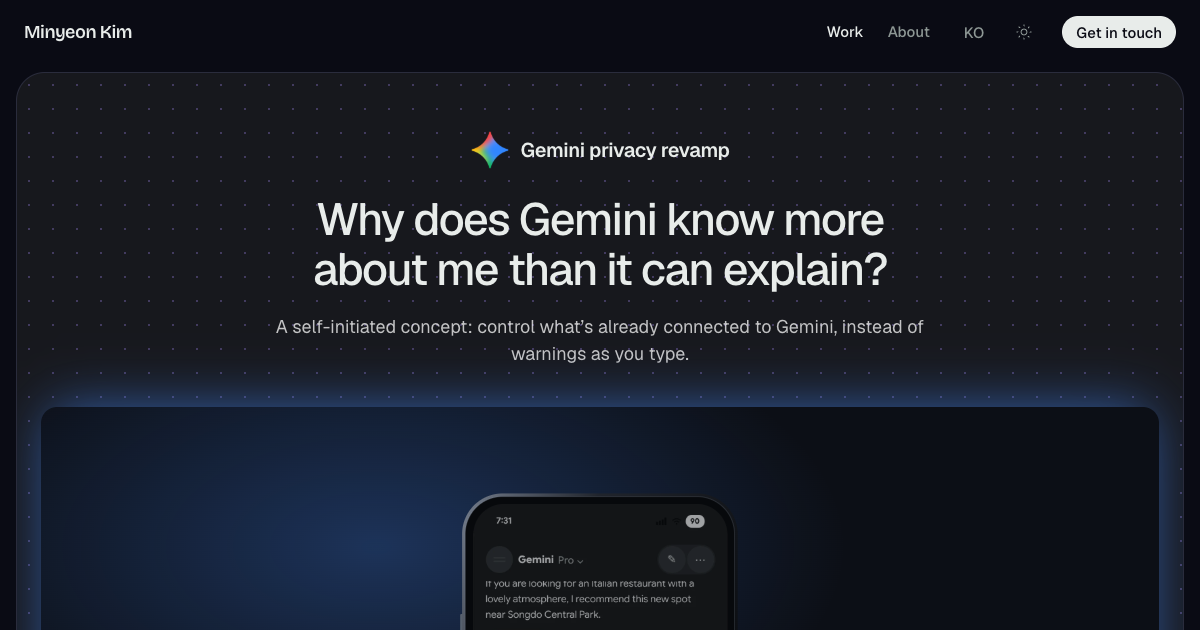
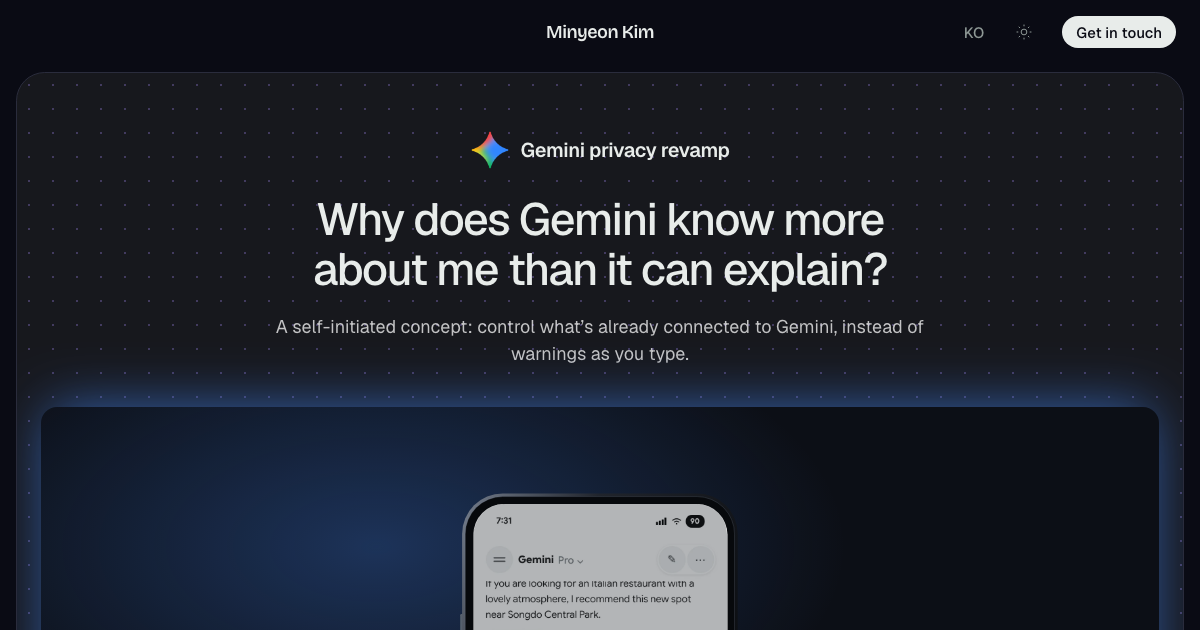
Landing hovers: smaller card corners, larger bolt and sparkle, no role line; Gemini phone always light

diff --git a/app/globals.css b/app/globals.css
@@ -1961,8 +1961,6 @@ header:has(.header-menu-trigger[aria-expanded="true"]) .site-header-bar { backgr
 :root[data-theme="dark"] [data-theme-show="light"] { display: none !important; }
 @media (prefers-color-scheme: light) { :root:not([data-theme="dark"]) [data-theme-show="dark"] { display: none !important; } }
 @media (prefers-color-scheme: dark) { :root:not([data-theme="light"]) [data-theme-show="light"] { display: none !important; } }
-:root[data-theme="dark"] .gemini-phone-display, :root[data-theme="dark"] .gemini-phone-sheet { background: #131314; }
-@media (prefers-color-scheme: dark) { :root:not([data-theme="light"]) :is(.gemini-phone-display, .gemini-phone-sheet) { background: #131314; } }
 
 /* Devsign hero: real prototype screens, one 9s loop (components/devsign-loop.tsx). */
 .devsign-loop { position: relative; max-width: 1280px; margin-inline: auto; overflow: hidden; border-radius: 16px; border: 1px solid rgb(255 255 255 / 0.08); box-shadow: 0 30px 80px rgb(0 0 0 / 0.45); }
@@ -2544,17 +2542,17 @@ header[data-home] .header-menu-trigger { transition-property: background-color, 
   .home-world-role, .home-world-name, .home-world-problem { display: none; }
 }
 /* The hovered case's media: a large flat card at the top right, in its own frame (metalab.com's project shot), not a posed device. */
-.home-device { position: absolute; top: 14%; right: calc(var(--project-text-inset) + var(--picks-gutter)); width: min(40vw, 620px); aspect-ratio: 16 / 10; overflow: hidden; border: 0; border-radius: 22px; background: #141414; box-shadow: 0 60px 120px -40px rgb(0 0 0 / 0.7), 0 16px 40px -16px rgb(0 0 0 / 0.4); opacity: 0; translate: 0 40px; clip-path: inset(100% 0 0 0 round 22px); transition: opacity 400ms ease, translate 500ms var(--ease-out-soft), clip-path 500ms var(--ease-out-soft); pointer-events: none; }
-.home-device[data-active] { opacity: 1; translate: 0 0; clip-path: inset(0 0 0 0 round 22px); transition: opacity 300ms ease, translate 800ms var(--ease-out-soft), clip-path 800ms var(--ease-out-soft); }
+.home-device { position: absolute; top: 14%; right: calc(var(--project-text-inset) + var(--picks-gutter)); width: min(40vw, 620px); aspect-ratio: 16 / 10; overflow: hidden; border: 0; border-radius: 8px; background: #141414; box-shadow: 0 60px 120px -40px rgb(0 0 0 / 0.7), 0 16px 40px -16px rgb(0 0 0 / 0.4); opacity: 0; translate: 0 40px; clip-path: inset(100% 0 0 0 round 8px); transition: opacity 400ms ease, translate 500ms var(--ease-out-soft), clip-path 500ms var(--ease-out-soft); pointer-events: none; }
+.home-device[data-active] { opacity: 1; translate: 0 0; clip-path: inset(0 0 0 0 round 8px); transition: opacity 300ms ease, translate 800ms var(--ease-out-soft), clip-path 800ms var(--ease-out-soft); }
 /* The cards sit above the backdrop's vignette, so the light theme's pale edge never washes over them. */
 .home-backdrop .home-device { z-index: 1; }
-.home-device[data-project="devsign"] { translate: 0 0; clip-path: inset(0 0 0 100% round 22px); }
-.home-device[data-project="devsign"][data-active] { clip-path: inset(0 0 0 0 round 22px); }
+.home-device[data-project="devsign"] { translate: 0 0; clip-path: inset(0 0 0 100% round 8px); }
+.home-device[data-project="devsign"][data-active] { clip-path: inset(0 0 0 0 round 8px); }
 .home-device > * { scale: 1.12; transition: scale 500ms var(--ease-out-soft); }
 .home-device[data-active] > * { scale: 1; transition: scale 1000ms var(--ease-out-soft); }
 /* The cards sit on the case's own colour plate, the screen set into it (after lusion.co/work). */
 .home-device[data-project="devsign"] { background: radial-gradient(80% 90% at 20% 0%, #8b6cff 0%, #5b3fd6 45%, #2a1a7a 100%); }
-.home-device[data-project="devsign"] .home-device-window { inset: 9% 7% -6% 7%; border-radius: 12px; overflow: hidden; box-shadow: 0 30px 60px -20px rgb(10 0 40 / 0.7), 0 0 0 1px rgb(255 255 255 / 0.12); }
+.home-device[data-project="devsign"] .home-device-window { inset: 9% 7% -6% 7%; border-radius: 6px; overflow: hidden; box-shadow: 0 30px 60px -20px rgb(10 0 40 / 0.7), 0 0 0 1px rgb(255 255 255 / 0.12); }
 .home-device[data-project="gemini-privacy"] { background: radial-gradient(90% 80% at 30% 10%, #9ad7ff 0%, #5b8cff 40%, #3a2f9a 100%); }
 .home-device[data-project="gemini-privacy"] .home-device-phone { background: none; }
 /* Its caption: a black block overlapping a corner of the card. */
@@ -3258,20 +3256,17 @@ header[data-home] .header-menu-trigger { transition-property: background-color, 
   .home-picks ol { flex-direction: column; align-items: flex-start; gap: 6px; }
   .home-pick { min-height: 32px; padding: 0 16px; font-size: 16px; font-weight: 400; }
   /* Each case's hover, in metalab.com's own proportions. Gemini follows its The Atlantic
-     state: portrait card at the bottom right, name left of centre, the sentence high,
-     the role low. Devsign follows Midjourney: card at the top right of centre, role high,
-     name low, the sentence in the bottom right corner. */
+     state: portrait card at the bottom right, name left of centre, the sentence high.
+     Devsign follows Midjourney: card at the top right of centre, name low, the sentence
+     in the bottom right corner. */
   .home-device[data-project="gemini-privacy"] { --card-h: 55svh; top: auto; bottom: 24px; right: var(--project-text-inset); width: auto; height: var(--card-h); aspect-ratio: 3 / 4; }
   .home-stage[data-world="gemini-privacy"] { --gx: max(18.7%, calc(var(--project-text-inset) + 240px)); }
   /* One line, unless the card leaves too little room for it (1024 wide). */
   .home-stage[data-world="gemini-privacy"] .home-world-name { left: var(--gx); top: calc(57% - 0.5em); max-width: calc(100% - var(--gx) - var(--project-text-inset) - 41.25svh - 16px); font-size: clamp(44px, min(5.4vw, 10svh), 104px); }
   .home-stage[data-world="gemini-privacy"] .home-world-problem { left: 42.4%; right: auto; top: 18.8%; bottom: auto; width: min(30ch, 300px); }
-  .home-stage[data-world="gemini-privacy"] .home-world-role { left: min(59%, calc(100% - var(--project-text-inset) - 41.25svh - 214px)); top: 69%; width: 190px; translate: 0 16px; white-space: normal; }
   .home-device[data-project="devsign"] { top: 11.4%; left: 52%; right: auto; width: 40vw; }
   .home-stage[data-world="devsign"] .home-world-name { left: 35%; top: calc(73.5% - 0.5em); max-width: none; white-space: nowrap; }
-  .home-stage[data-world="devsign"] .home-world-role { left: 28%; top: 18.8%; max-width: calc(24% - 24px); translate: 0 16px; white-space: normal; }
   .home-stage[data-world="devsign"] .home-world-problem { left: 75.3%; right: var(--project-text-inset); bottom: 48px; width: auto; }
-  .home-stage:is([data-world="gemini-privacy"], [data-world="devsign"]) .home-world-role[data-on] { translate: 0 0; }
 }
 /* The shown card and its caption open the case. They sit in the backdrop, so the
    copy layer above lets the pointer through, except on its own visible parts. */

diff --git a/components/home/hero-object.tsx b/components/home/hero-object.tsx
@@ -57,8 +57,8 @@ bool inBolt(vec2 q) {
   }
   return inside;
 }
-const float BOLT_SCALE = 1.3;
-const vec2 BOLT_AT = vec2(-1.13, 0.2);
+const float BOLT_SCALE = 1.7;
+const vec2 BOLT_AT = vec2(-1.42, -0.19);
 // Where point n of the form leans: the form, with a wide halo of dust.
 vec3 formOf(float n, vec2 uv) {
   float a = hq(n, 1u), b = hq(n, 2u), c = hq(n, 3u), g = hq(n, 4u);
@@ -100,7 +100,8 @@ vec3 formOf(float n, vec2 uv) {
       }
       loose *= 0.3;
     }
-    // Left of the card and above the name, large.
+    // Large and tall at the left of the card, the name over its lower part
+    // (metalab.com's Midjourney head).
     p = vec3(q * BOLT_SCALE + BOLT_AT, (hq(n, 17u) - 0.5) * 0.2);
   } else {
     // The Gemini sparkle: a four-point star with concave sides, filled with a
@@ -110,8 +111,8 @@ vec3 formOf(float n, vec2 uv) {
     vec2 dir = vec2(cos(t), sin(t));
     float r = 1.2 / pow(pow(abs(dir.x), 0.5) + pow(abs(dir.y), 0.5), 2.0);
     float fill = a < 0.6 ? mix(0.62, 1.0, sqrt(c)) : sqrt(c);
-    // Top left, above the title, clear of the card and the paragraph.
-    p = vec3(dir * r * fill * 0.85 + vec2(-1.6, 0.9), (hq(n, 18u) - 0.5) * 0.2);
+    // Large behind the copy, above the card (metalab.com's Atlantic head).
+    p = vec3(dir * r * fill * 1.2 + vec2(-0.2, 0.23), (hq(n, 18u) - 0.5) * 0.2);
     loose *= a < 0.6 ? 0.6 : 0.75;
   }
   // While a case is hovered, most of the dust draws in so the form shows;
@@ -219,7 +220,7 @@ void main() {
 
 const drawVertex = `#version 300 es
 precision highp float;
-uniform sampler2D pos; uniform sampler2D vel; uniform float SIZE; uniform float aspect; uniform float symbol; uniform float time; uniform vec2 mouse; uniform float spectrum; uniform float bolt; uniform float galaxy; uniform float light; uniform float dpr; uniform vec4 clearRect[3]; uniform vec2 cam; uniform float skyFrom; uniform float ground;
+uniform sampler2D pos; uniform sampler2D vel; uniform float SIZE; uniform float aspect; uniform float symbol; uniform float time; uniform vec2 mouse; uniform float spectrum; uniform float bolt; uniform float galaxy; uniform float light; uniform float dpr; uniform vec4 clearRect[4]; uniform vec2 cam; uniform float skyFrom; uniform float ground;
 uniform float keep;  // the share of the simulation drawn
 uniform float portraitMix; uniform sampler2D portrait; uniform sampler2D portraitColor;
 uniform float halo;  // the light theme: grains drawn larger as a glow (bright core, soft coloured halo)
@@ -234,7 +235,7 @@ void main() {
   vSpeed = length(u);
   // Gemini: the sparkle takes the logo's colours, blue at its heart and
   // warmer towards its points (coral up, yellow left, green down).
-  vec2 g = (p.xy - vec2(-2.21, 1.56)) / 0.85;
+  vec2 g = (p.xy - vec2(0.03, 0.488)) / 1.2;
   float ga = atan(g.y, g.x);
   vec3 tips = vec3(0.26, 0.52, 1.0) * max(cos(ga), 0.0) + vec3(1.0, 0.42, 0.4) * max(sin(ga), 0.0)
     + vec3(1.0, 0.8, 0.25) * max(-cos(ga), 0.0) + vec3(0.2, 0.8, 0.5) * max(-sin(ga), 0.0);
@@ -243,9 +244,9 @@ void main() {
   vSpec = spectrum * mix(0.55, 0.95, smoothstep(0.05, 0.7, length(g)));
   // Devsign: the logo's violet, cyan along the lower right, and a soft
   // white sheen across the upper slab.
-  // The bolt's own coordinates, wherever formOf sets it (scale 1.3 at (-1.13, 0.2)).
-  vec2 d = ((p.xy - vec2(-1.13, 0.2)) / 1.3 + vec2(-1.75, 0.75) - vec2(0.35, 0.12)) / 1.6 - vec2(-1.75, 0.75);
-  float cyan = smoothstep(0.5, 0.8, dot(d, normalize(vec2(1.0, -0.7))));
+  // The bolt's own coordinates, wherever formOf sets it (scale 1.7 at (-1.42, -0.19)).
+  vec2 d = ((p.xy - vec2(0.35, 0.12)) / 1.6 - vec2(-1.42, -0.19)) / 1.7;
+  float cyan = smoothstep(0.25, 0.55, dot(d, normalize(vec2(1.0, -0.7))));
   float sheen = exp(-pow(dot(d - vec2(-0.25, 0.35), normalize(vec2(0.3, 1.0))) / 0.08, 2.0)) * 0.6;
   vec3 boltTint = mix(mix(vec3(0.56, 0.28, 1.0), vec3(0.3, 0.8, 1.0), cyan), vec3(0.95, 0.9, 1.0), sheen);
   vTint = mix(vTint, boltTint, bolt);
@@ -313,12 +314,13 @@ void main() {
   vFaint *= min(px, 1.0);
   // The case's paragraph stays readable: dust behind it (with a soft margin)
   // all but disappears. clearRect is its box in clip space (x0, y0, x1, y1).
-  vec2 m = vec2(0.09, 0.14);
-  for (int i = 0; i < 3; i++) {
+  vec2 m = vec2(0.05, 0.08);
+  for (int i = 0; i < 4; i++) {
     vec4 c = clearRect[i];
     float inside = smoothstep(c.x - m.x, c.x, s.x) * smoothstep(c.z + m.x, c.z, s.x)
       * smoothstep(c.y - m.y, c.y, s.y) * smoothstep(c.w + m.y, c.w, s.y);
-    vFaint *= 1.0 - 0.85 * inside;
+    // The last box is the big name: its form still shows through.
+    vFaint *= 1.0 - (i == 3 ? 0.82 : 0.85) * inside;
   }
   px *= mix(0.9, 1.0, smoothstep(0.3, 0.5, vDepth));
   // Flying through: dust grows as the camera nears it.
@@ -672,7 +674,7 @@ export function HeroObject({ variant = "default", active = true, portrait, class
 
     // The visible case paragraph's box in clip space, re-read now and then;
     // off-screen when none is shown.
-    const clear = new Array(12).fill(9);
+    const clear = new Array(16).fill(9);
     let clearTick = 0;
     const readClear = () => {
       // A case's paragraph, or on the landing the statement (with the note
@@ -683,7 +685,7 @@ export function HeroObject({ variant = "default", active = true, portrait, class
       const c = el.getBoundingClientRect();
       // The other boxes, on wide screens: the case pills and the note, which
       // sit apart from the statement, in the waves.
-      [".home-picks", ".home-note:not([data-swap]) .home-note-default, .home-world-role[data-on]"].forEach((selector, i) => {
+      [".home-picks", ".home-note:not([data-swap]) .home-note-default, .home-world-role[data-on]", ".home-world-name[data-on]"].forEach((selector, i) => {
         const box = wideStage() ? document.querySelector<HTMLElement>(selector)?.getBoundingClientRect() : undefined;
         const at = 4 + i * 4;
         if (!box) { clear.fill(9, at, at + 4); return; }

diff --git a/components/gemini-phone.tsx b/components/gemini-phone.tsx
@@ -6,29 +6,23 @@ import { withBase } from "@/lib/site";
 // pulses, the source sheet slides up and Gmail switches off, then the answer
 // confirms the change. Positions are percentages of the 750x1624 screenshot
 // (screen-a2-badge.webp); the frame is phone-frame.svg (1000x1100).
-// Light and dark screens are both in the page; CSS shows the one that matches
-// the site theme ([data-theme-show] in globals.css).
+// Always the light screens, whatever the site theme: they read better on the plate.
 export function GeminiPhone({ alt, preload = false }: { alt: string; preload?: boolean }) {
   const dir = "/images/cases/gemini-privacy";
   return (
     <div className="gemini-phone" role={alt ? "img" : undefined} aria-label={alt || undefined}>
       <Image className="gemini-phone-frame" src={withBase(`${dir}/phone-frame.svg`)} alt="" width={1000} height={1100} preload={preload} />
       <div className="gemini-phone-display">
-        {(["light", "dark"] as const).map((theme) => {
-          const v = theme === "dark" ? "-dark" : "";
-          return (
-            <div key={theme} className="gemini-phone-stage" data-theme-show={theme}>
-              <Image src={withBase(`${dir}/screen-a2-badge${v}.webp`)} alt="" width={750} height={1624} sizes="400px" preload={preload} />
-              <Image className="gemini-phone-after" src={withBase(`${dir}/hero-after${v}.webp`)} alt="" width={750} height={1624} sizes="400px" />
-              <span className="gemini-phone-badge" />
-              <span className="gemini-phone-dim" />
-              <div className="gemini-phone-sheet">
-                <Image src={withBase(`${dir}/hero-sheet${v}.webp`)} alt="" width={750} height={1160} sizes="400px" />
-                <Image className="gemini-phone-sheet-off" src={withBase(`${dir}/hero-sheet-off${v}.webp`)} alt="" width={750} height={1160} sizes="400px" />
-              </div>
-            </div>
-          );
-        })}
+        <div className="gemini-phone-stage">
+          <Image src={withBase(`${dir}/screen-a2-badge.webp`)} alt="" width={750} height={1624} sizes="400px" preload={preload} />
+          <Image className="gemini-phone-after" src={withBase(`${dir}/hero-after.webp`)} alt="" width={750} height={1624} sizes="400px" />
+          <span className="gemini-phone-badge" />
+          <span className="gemini-phone-dim" />
+          <div className="gemini-phone-sheet">
+            <Image src={withBase(`${dir}/hero-sheet.webp`)} alt="" width={750} height={1160} sizes="400px" />
+            <Image className="gemini-phone-sheet-off" src={withBase(`${dir}/hero-sheet-off.webp`)} alt="" width={750} height={1160} sizes="400px" />
+          </div>
+        </div>
       </div>
     </div>
   );

diff --git a/components/home/home-intro.tsx b/components/home/home-intro.tsx
@@ -34,7 +34,7 @@ const subscribeStacked = (onChange: () => void) => {
 // its surface (Devsign's dark canvas, Gemini's blue night) while the loop
 // fades, its media sits in a large card at the top right (the Devsign browser
 // window with the live prototype, or the Gemini phone on its surface), the
-// name large and the problem line and role set apart. Each world has its own
+// name large and the problem line set apart. Each world has its own
 // composition (CSS by data-world): Devsign like metalab.com's Midjourney state,
 // Gemini like The Atlantic (portrait card at the bottom right), About (name bottom centre, no
 // card: the site's own loop stays as the image, the headline is the statement
@@ -59,7 +59,7 @@ export function HomeIntro({ projects, about: aboutCopy, onSelect }: Props) {
   // composition (metalab.com's per-project layouts). Kept while it fades out.
   type World = { slug: string; role?: string; emphasis?: string; name: string; text: string };
   const world: World | null = shown
-    ? { slug: shown.slug, role: [shown.role, shown.timeline].filter(Boolean).join(" · "), name: shown.name, text: shown.hook ?? shown.problem }
+    ? { slug: shown.slug, name: shown.name, text: shown.hook ?? shown.problem }
     : about && aboutCopy
       ? { slug: "about", role: aboutCopy.headline, emphasis: aboutCopy.emphasis, name: site.name, text: aboutCopy.bio }
       : null;

diff --git a/claude.md b/claude.md
@@ -1288,3 +1288,5 @@ Landing statement is a thin serif (owner chose Newsreader from five renders; ref
 The landing's "Case studies" label is 13px Regular, muted, as small as Metalab's over its pills (owner; a deliberate exception to the 16px minimum, since it only names the list below it). The owner asked between Work, Projects and Case studies; Case studies stays, since neither case is employment work and the openers already say "Case study". Figma Main not updated.
 
 Landing case hovers follow metalab.com's own states, in its proportions (owner, from two screenshots; supersedes the Uber / Robinhood compositions and the card caption). Gemini = The Atlantic: portrait 3:4 card at the bottom right (55svh, 24px off the bottom), name 18.7% / 57% (wraps only where the card leaves too little room, 1024 wide), sentence 42.4% / 18.8%, role 59% / 69%. Devsign = Midjourney: 16:10 card 52% from the left, 11.4% down, 40vw; role 28% / 18.8%; name 35% / 73.5%; sentence at the bottom right from 75.3%. The black caption block on the card is gone (`meta.caption` is no longer shown); role · timeline is the separate role line again. The Devsign bolt moved to (-1.13, 0.2) at 1.3× so it sits left of the card and above the name, a little less cyan; the sparkle stays. Dust thins behind the role (`clearRect[2]`). About's hover is unchanged. Below 64rem nothing changes. Figma Main not updated.
+
+Landing case hovers, refined (owner, against Metalab's Midjourney state): the card has 8px corners (was 22; the Devsign window inside 6px); the role line is gone from the landing (name, sentence and card only; About keeps its headline). The Devsign bolt is 1.7× at (-1.42, -0.19), tall at the left of the card with the name over its lower part; the Gemini sparkle is ×1.2 at (-0.2, 0.23), large behind the copy above the card (supersedes the top left spot). Dust clears behind the name too (`clearRect[3]`), with tighter margins. The Gemini phone is always its light screens, whatever the site theme (owner); the dark screen files for it are deleted, and public/og/gemini-privacy.png retaken. Figma Main not updated.
